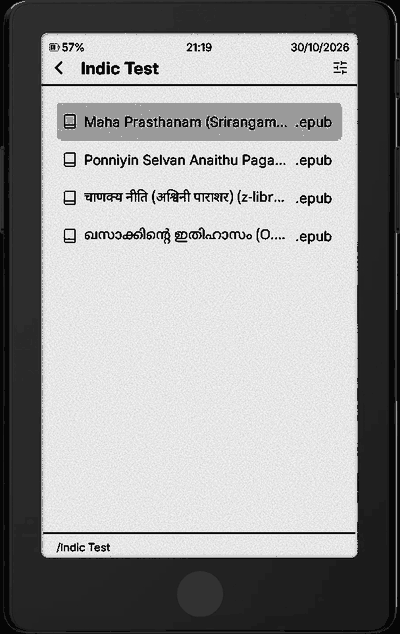
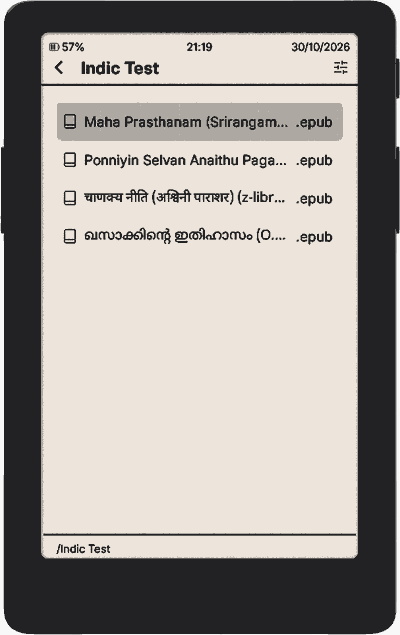
docs: align README images and keep mockup corners transparent

diff --git a/README.md b/README.md
@@ -12,15 +12,15 @@
 
 <table>
   <tr>
-    <td align="center">
+    <td align="center" valign="top">
       <img src="./docs/images/rhythm/reading-rhythm.png" width="200" alt="Reading Rhythm page: recent activity dot grid, weekly reading time bars, reading days by month" /><br/>
       <sub>Reading Rhythm</sub>
     </td>
-    <td align="center">
+    <td align="center" valign="top">
       <img src="./docs/images/indic/kannada-book.png" width="200" alt="An Indic book page (Kannada) with conjuncts and vowel signs drawn correctly" /><br/>
       <sub>Indic books: Kannada, Tamil, Malayalam,<br/>Telugu, Marathi, Sanskrit, Hindi</sub>
     </td>
-    <td align="center">
+    <td align="center" valign="top">
       <img src="./docs/images/scenes/glass_house.gif" width="200" alt="Glass House scene from 0 to 100%: the garden is planted, a Gandaberunda topiary grows and visitors arrive" /><br/>
       <sub>Glass House scene</sub>
     </td>
@@ -47,15 +47,15 @@ Open **Reading Stats** the usual way (the frontlight panel on the X4 Pro, or the
 
 <table>
   <tr>
-    <td align="center">
+    <td align="center" valign="top">
       <img src="./docs/images/rhythm/this-device.png" width="200" alt="This Device stats page from stock CrossInk" /><br/>
       <sub>This Device (stock CrossInk)</sub>
     </td>
-    <td align="center">
+    <td align="center" valign="top">
       <img src="./docs/images/rhythm/reading-rhythm.png" width="200" alt="Reading Rhythm page" /><br/>
       <sub>→ Reading Rhythm</sub>
     </td>
-    <td align="center">
+    <td align="center" valign="top">
       <img src="./docs/images/rhythm/books-finished.png" width="200" alt="Books Finished page: totals and recently finished books" /><br/>
       <sub>→ Books Finished</sub>
     </td>
@@ -74,15 +74,15 @@ Open **Reading Stats** the usual way (the frontlight panel on the X4 Pro, or the
 
 <table>
   <tr>
-    <td align="center">
+    <td align="center" valign="top">
       <img src="./docs/images/rhythm/book-overview.png" width="200" alt="Book Overview page: sessions, reading time, pace, dates, time of day and day of week" /><br/>
       <sub>Overview</sub>
     </td>
-    <td align="center">
+    <td align="center" valign="top">
       <img src="./docs/images/rhythm/book-rhythm.png" width="200" alt="Book Rhythm page with recorded reading days" /><br/>
       <sub>Book Rhythm, recorded days</sub>
     </td>
-    <td align="center">
+    <td align="center" valign="top">
       <img src="./docs/images/rhythm/book-rhythm-estimated.png" width="200" alt="Book Rhythm page with estimated reading days, marked ~ estimated" /><br/>
       <sub>Book Rhythm, estimated days</sub>
     </td>
@@ -101,18 +101,16 @@ Copy a script's font folder to the SD card and its text renders correctly in any
 
 <table>
   <tr>
-    <td align="center"><img src="./docs/images/indic/kannada-book.png" width="150" alt="Kannada book page" /><br /><sub>Kannada</sub></td>
-    <td align="center"><img src="./docs/images/indic/tamil-book.png" width="150" alt="Tamil book page" /><br /><sub>Tamil</sub></td>
-    <td align="center"><img src="./docs/images/indic/malayalam-book.png" width="150" alt="Malayalam book page" /><br /><sub>Malayalam</sub></td>
-    <td align="center"><img src="./docs/images/indic/telugu-book.png" width="150" alt="Telugu book page" /><br /><sub>Telugu</sub></td>
-    <td align="center"><img src="./docs/images/indic/hindi-book.png" width="150" alt="Hindi book page" /><br /><sub>Hindi (Devanagari)</sub></td>
+    <td align="center" valign="top"><img src="./docs/images/indic/kannada-book.png" width="150" alt="Kannada book page" /><br /><sub>Kannada</sub></td>
+    <td align="center" valign="top"><img src="./docs/images/indic/tamil-book.png" width="150" alt="Tamil book page" /><br /><sub>Tamil</sub></td>
+    <td align="center" valign="top"><img src="./docs/images/indic/malayalam-book.png" width="150" alt="Malayalam book page" /><br /><sub>Malayalam</sub></td>
+    <td align="center" valign="top"><img src="./docs/images/indic/telugu-book.png" width="150" alt="Telugu book page" /><br /><sub>Telugu</sub></td>
+    <td align="center" valign="top"><img src="./docs/images/indic/hindi-book.png" width="150" alt="Hindi book page" /><br /><sub>Hindi (Devanagari)</sub></td>
   </tr>
   <tr>
-    <td align="center"><img src="./docs/images/indic/file-browser.png" width="150" alt="File browser with Hindi and Malayalam file names" /><br /><sub>File browser</sub></td>
-    <td align="center"><img src="./docs/images/indic/home.png" width="150" alt="Home screen with a Kannada title" /><br /><sub>Home</sub></td>
-    <td align="center"><img src="./docs/images/indic/chapter-list.png" width="150" alt="Chapter list in Kannada" /><br /><sub>Chapter list</sub></td>
-    <td></td>
-    <td></td>
+    <td align="center" valign="top"><img src="./docs/images/indic/file-browser.png" width="150" alt="File browser with Hindi and Malayalam file names" /><br /><sub>File browser</sub></td>
+    <td align="center" valign="top"><img src="./docs/images/indic/home.png" width="150" alt="Home screen with a Kannada title" /><br /><sub>Home</sub></td>
+    <td align="center" valign="top"><img src="./docs/images/indic/chapter-list.png" width="150" alt="Chapter list in Kannada" /><br /><sub>Chapter list</sub></td>
   </tr>
 </table>
 
@@ -151,19 +149,19 @@ When updating, replace the whole folder rather than single files: the `.cpfont` 
 
 <table>
   <tr>
-    <td align="center">
+    <td align="center" valign="top">
       <img src="./docs/images/scenes/glass_house.gif" width="200" alt="Glass House scene from 0 to 100%: the Lalbagh Glass House garden planted, a Gandaberunda topiary grown in its wire frame and visitors filling the garden" /><br/>
       <sub><b>Glass House</b> (built in)</sub>
     </td>
-    <td align="center">
+    <td align="center" valign="top">
       <img src="./docs/images/scenes/lalbagh.gif" width="200" alt="Lalbagh scene from 0 to 100%: Namma Metro's Green line built past Lalbagh's West Gate" /><br/>
       <sub><b>Lalbagh</b></sub>
     </td>
-    <td align="center">
+    <td align="center" valign="top">
       <img src="./docs/images/scenes/kr_market.gif" width="200" alt="KR Market scene from 0 to 100%: City Market built up from a cleared site to its full roof" /><br/>
       <sub><b>KR Market</b></sub>
     </td>
-    <td align="center">
+    <td align="center" valign="top">
       <img src="./docs/images/scenes/state_library.gif" width="200" alt="State Library scene from 0 to 100%: boxes unpacked, shelves filled and readers filling the hall" /><br/>
       <sub><b>State Library</b></sub>
     </td>
@@ -190,12 +188,12 @@ Six "Read Responsibly" wallpapers for CrossInk's **Page Overlay** sleep screen, 
 
 <table>
   <tr>
-    <td align="center"><img src="./docs/images/page-overlays/dots.png" width="130" alt="Page Overlay sleep screen: Read Responsibly, dots pattern over the current page" /><br /><sub>Dots</sub></td>
-    <td align="center"><img src="./docs/images/page-overlays/dots-dense.png" width="130" alt="Page Overlay sleep screen: Read Responsibly, dense dots pattern over the current page" /><br /><sub>Dots, dense</sub></td>
-    <td align="center"><img src="./docs/images/page-overlays/maze.png" width="130" alt="Page Overlay sleep screen: Read Responsibly, maze pattern over the current page" /><br /><sub>Maze</sub></td>
-    <td align="center"><img src="./docs/images/page-overlays/maze-outline.png" width="130" alt="Page Overlay sleep screen: Read Responsibly, outlined maze pattern over the current page" /><br /><sub>Maze, outline</sub></td>
-    <td align="center"><img src="./docs/images/page-overlays/cells.png" width="130" alt="Page Overlay sleep screen: Read Responsibly, cells pattern over the current page" /><br /><sub>Cells</sub></td>
-    <td align="center"><img src="./docs/images/page-overlays/cells-bold.png" width="130" alt="Page Overlay sleep screen: Read Responsibly, bold cells pattern over the current page" /><br /><sub>Cells, bold</sub></td>
+    <td align="center" valign="top"><img src="./docs/images/page-overlays/dots.png" width="130" alt="Page Overlay sleep screen: Read Responsibly, dots pattern over the current page" /><br /><sub>Dots</sub></td>
+    <td align="center" valign="top"><img src="./docs/images/page-overlays/dots-dense.png" width="130" alt="Page Overlay sleep screen: Read Responsibly, dense dots pattern over the current page" /><br /><sub>Dots, dense</sub></td>
+    <td align="center" valign="top"><img src="./docs/images/page-overlays/maze.png" width="130" alt="Page Overlay sleep screen: Read Responsibly, maze pattern over the current page" /><br /><sub>Maze</sub></td>
+    <td align="center" valign="top"><img src="./docs/images/page-overlays/maze-outline.png" width="130" alt="Page Overlay sleep screen: Read Responsibly, outlined maze pattern over the current page" /><br /><sub>Maze, outline</sub></td>
+    <td align="center" valign="top"><img src="./docs/images/page-overlays/cells.png" width="130" alt="Page Overlay sleep screen: Read Responsibly, cells pattern over the current page" /><br /><sub>Cells</sub></td>
+    <td align="center" valign="top"><img src="./docs/images/page-overlays/cells-bold.png" width="130" alt="Page Overlay sleep screen: Read Responsibly, bold cells pattern over the current page" /><br /><sub>Cells, bold</sub></td>
   </tr>
 </table>
 
